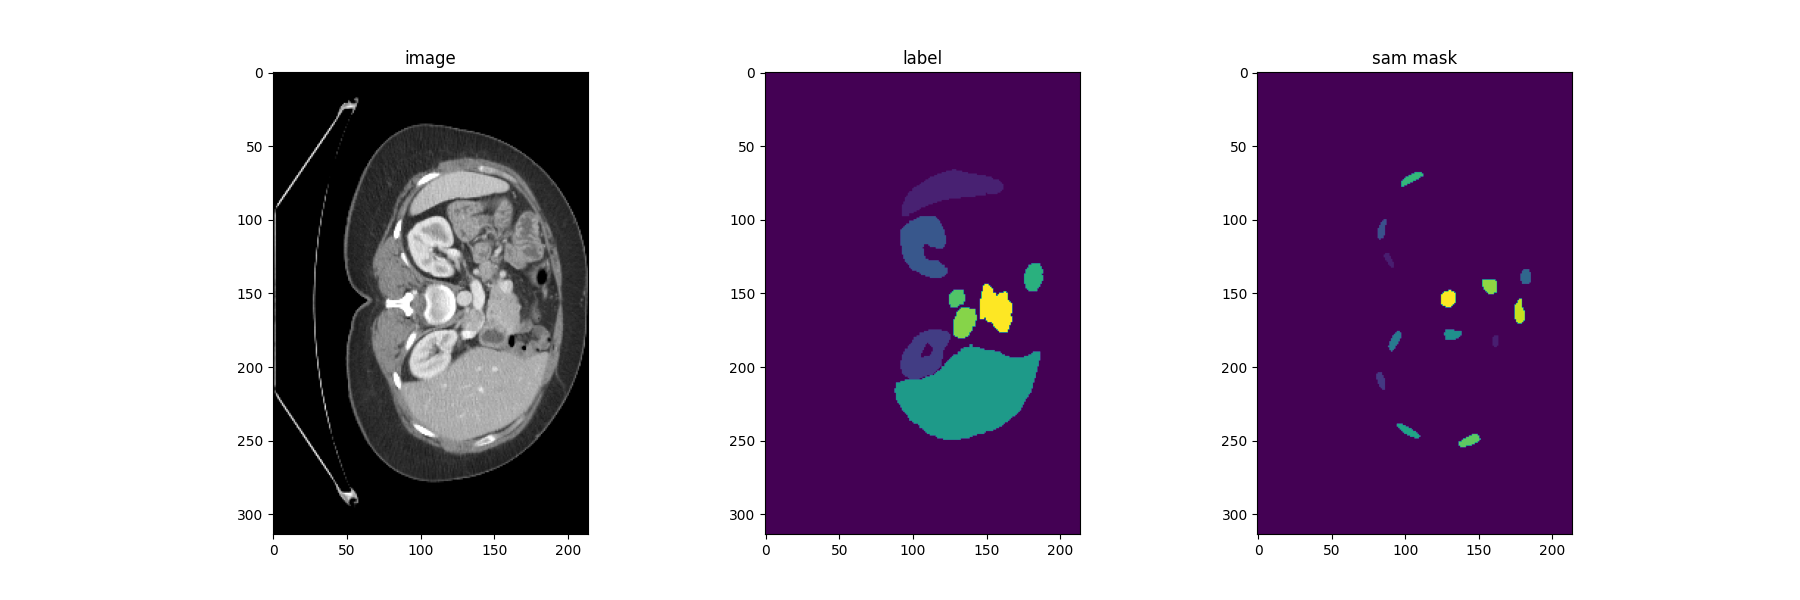
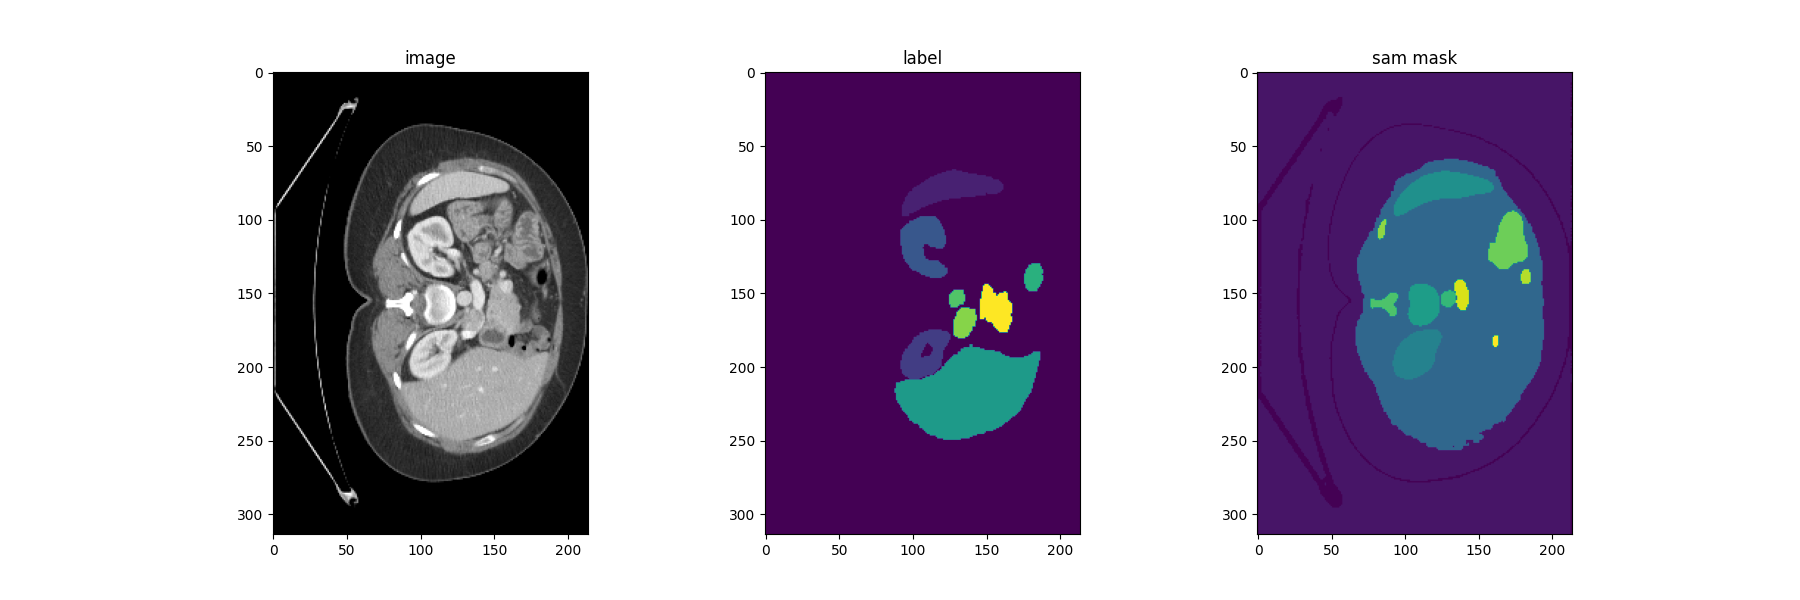
vis

Changed region(s): [[0.7467, 0.27, 0.8711, 0.75]]

diff --git a/segment-anything/notebooks/visualization.py b/segment-anything/notebooks/visualization.py
@@ -109,7 +109,7 @@ def get_anns_score(anns):
     if len(anns) == 0:
         return
     #sorted_anns = sorted(anns, key=(lambda x: x['predicted_iou']), reverse=True)
-    sorted_anns = sorted(anns, key=(lambda x: x['area']))
+    sorted_anns = sorted(anns, key=(lambda x: x['predicted_iou']), reverse=True)
     sorted_anns = sorted_anns[:13]
     ann_avg =  sorted_anns[0]['segmentation'].astype(np.float32)
     for i, ann in enumerate(sorted_anns[1:]):
